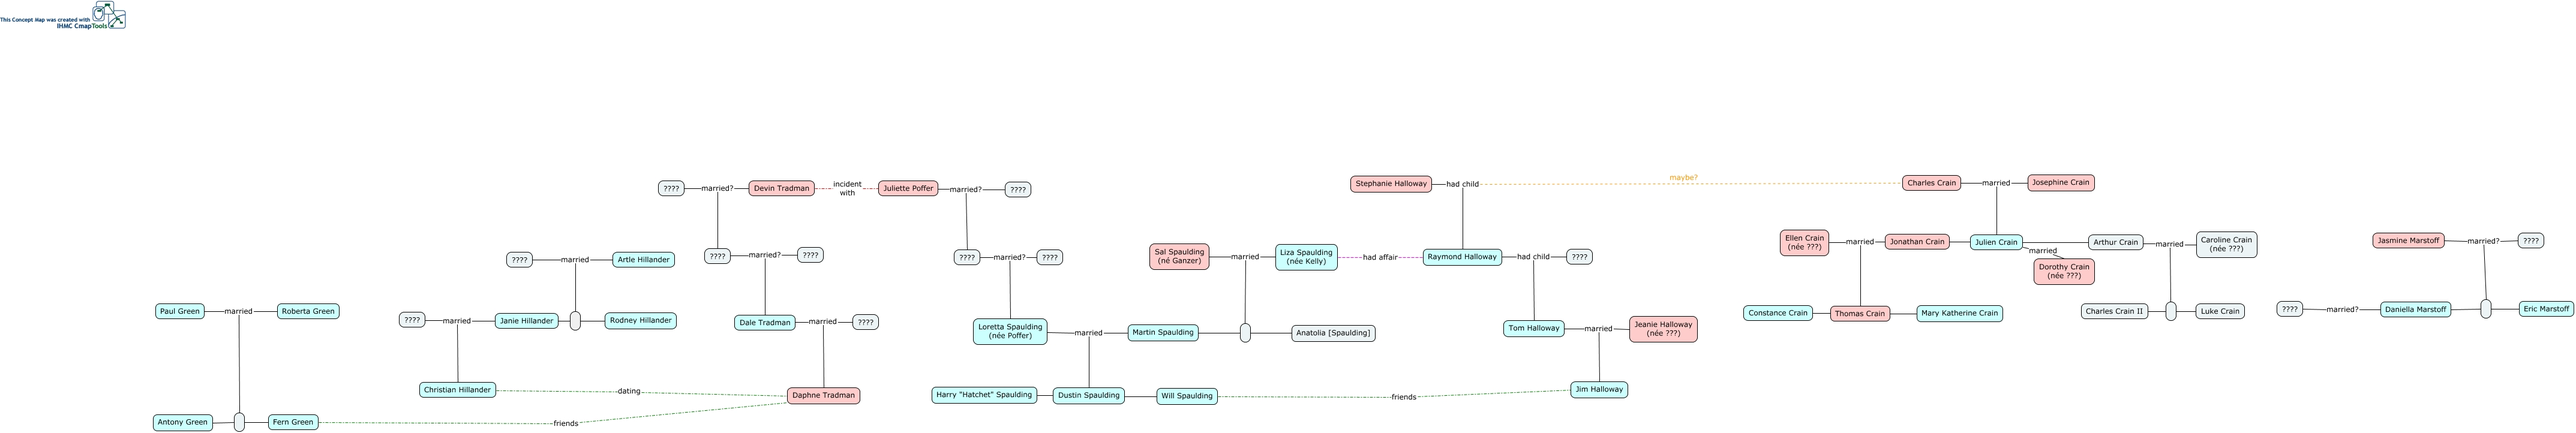
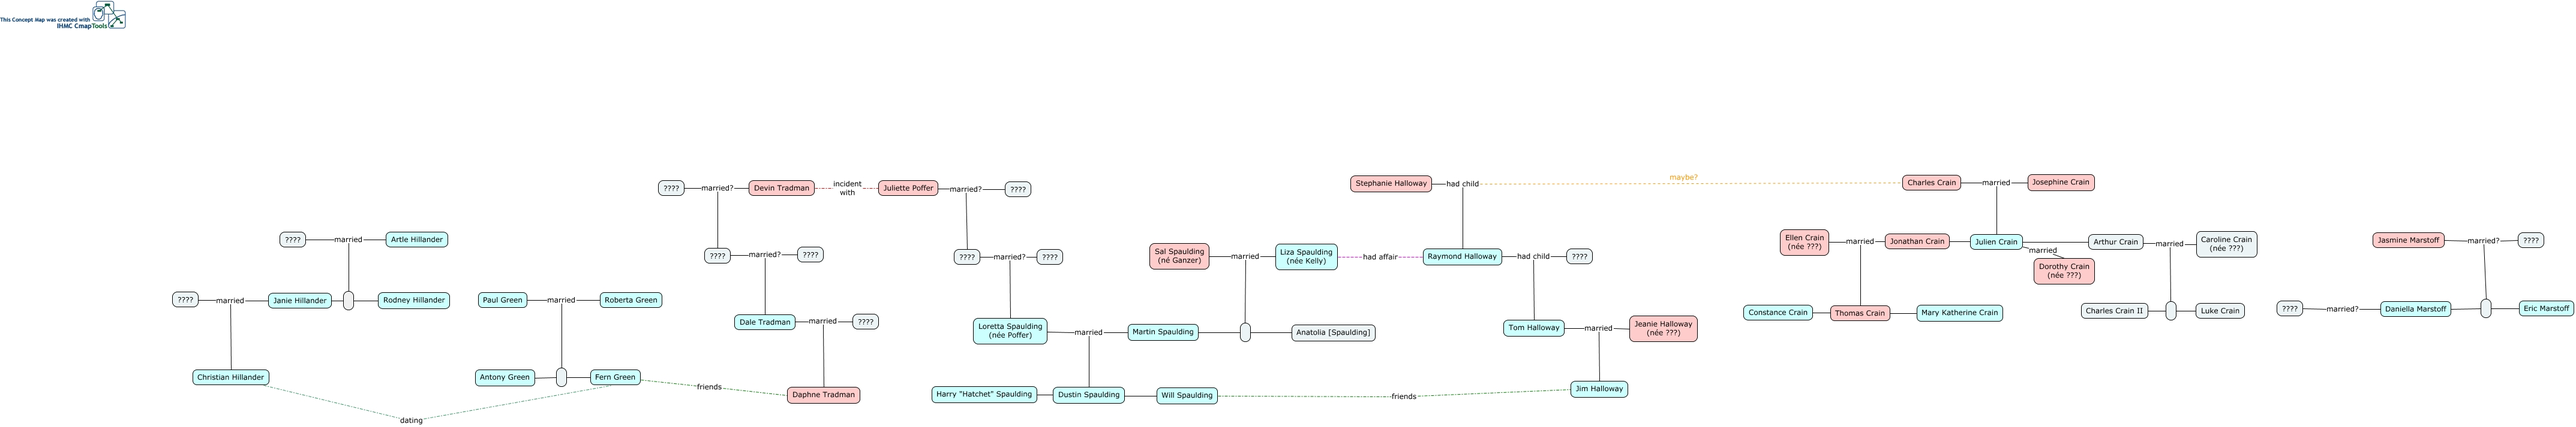
corrected Fern and Christian relationship

diff --git a/index.html b/index.html
@@ -2,9 +2,8 @@
 <HEAD>
   <TITLE>index.html</TITLE>
   <meta NAME = "GENERATOR"          CONTENT = "IHMC CmapTools vr. 4.12 ">
-  <meta NAME = "KEYWORDS"           CONTENT = "Aaron Fellows, Concept Map, cmap, CmapTools, IHMC, Stephanie,  Ellen Crain (née ???),  Sal Spaulding (né Ganzer),  ????,  ????,  Liza Spaulding
-(née Kelly),  ????,  Tom Halloway,  Martin Spaulding,  Arthur Crain,  Antony Green,  Artle Hillander,  Anatolia [Spaulding],  Devin Tradman,  Harry "Hatchet" Spaulding,  ????,  Daniella Marstoff,  maybe?,  Eric Marstoff,  Stephanie Halloway,  Mary Katherine Crain">
-  <meta NAME = "DESCRIPTION"        CONTENT = "A map of the family trees of Stephanie">
+  <meta NAME = "KEYWORDS"           CONTENT = "Aaron Fellows, Concept Map, cmap, CmapTools, IHMC, Stephanie,  Eric Marstoff,  Tom Halloway,  ????,  Jeanie Halloway(née ???),  Jonathan Crain,  Jasmine Marstoff,  Liza Spaulding(née Kelly),  ????,  ????,  Devin Tradman,  Martin Spaulding,  Sal Spaulding (né Ganzer),  ????,  Rodney Hillander,  ????,  maybe?,  Roberta Green,  Charles Crain,  Christian Hillander,  Josephine Crain">
+  <meta NAME = "DESCRIPTION"        CONTENT = "This Concept Map, created with IHMC CmapTools, has information related to: Stephanie, Jasmine Marstoff married?, Liza Spaulding (née Kelly) had affair Raymond Halloway, Christian Hillander dating Fern Green, ???? married? ????, ???? married Artle Hillander, Loretta Spaulding (née Poffer) married Dustin Spaulding, Charles Crain II, Arthur Crain married Caroline Crain (née ???), Charles Crain married Josephine Crain, Dale Tradman married ????, Devin Tradman incident with Juliette Poffer, Jasmine Marstoff married? ????, Fern Green friends Daphne Tradman, Loretta Spaulding (née Poffer) married Martin Spaulding, Janie Hillander, Anatolia [Spaulding], Will Spaulding friends Jim Halloway, ???? married? ????, ???? married? Devin Tradman, Eric Marstoff">
   <meta NAME = "AUTHOR"             CONTENT = "IHMC CmapTools">
   <meta HTTP-EQUIV = "Content-Type" CONTENT = "text/html; charset = UTF-8">
   <script LANGUAGE="JavaScript1.2">
@@ -206,7 +205,7 @@
       </td>
     </tr>
   </table>
-This Concept Map, created with IHMC CmapTools, has information related to: Stephanie, ???? married? ????, Paul Green married, Paul Green married Roberta Green, ???? married? Daniella Marstoff, Fern Green, Julien Crain married Dorothy Crain (née ???), Jasmine Marstoff married? ????, Rodney Hillander, Loretta Spaulding (née Poffer) married Dustin Spaulding, Charles Crain married Julien Crain, Loretta Spaulding (née Poffer) married Martin Spaulding, ???? married? ????, Stephanie Halloway had child Charles Crain, Eric Marstoff, Tom Halloway married Jeanie Halloway (née ???), ???? married? Dale Tradman, Luke Crain, Janie Hillander, Raymond Halloway had child Tom Halloway, Dale Tradman married ????
+This Concept Map, created with IHMC CmapTools, has information related to: Stephanie, Jasmine Marstoff married?, Liza Spaulding (née Kelly) had affair Raymond Halloway, Christian Hillander dating Fern Green, ???? married? ????, ???? married Artle Hillander, Loretta Spaulding (née Poffer) married Dustin Spaulding, Charles Crain II, Arthur Crain married Caroline Crain (née ???), Charles Crain married Josephine Crain, Dale Tradman married ????, Devin Tradman incident with Juliette Poffer, Jasmine Marstoff married? ????, Fern Green friends Daphne Tradman, Loretta Spaulding (née Poffer) married Martin Spaulding, Janie Hillander, Anatolia [Spaulding], Will Spaulding friends Jim Halloway, ???? married? ????, ???? married? Devin Tradman, Eric Marstoff
 
 </noscript>
 
